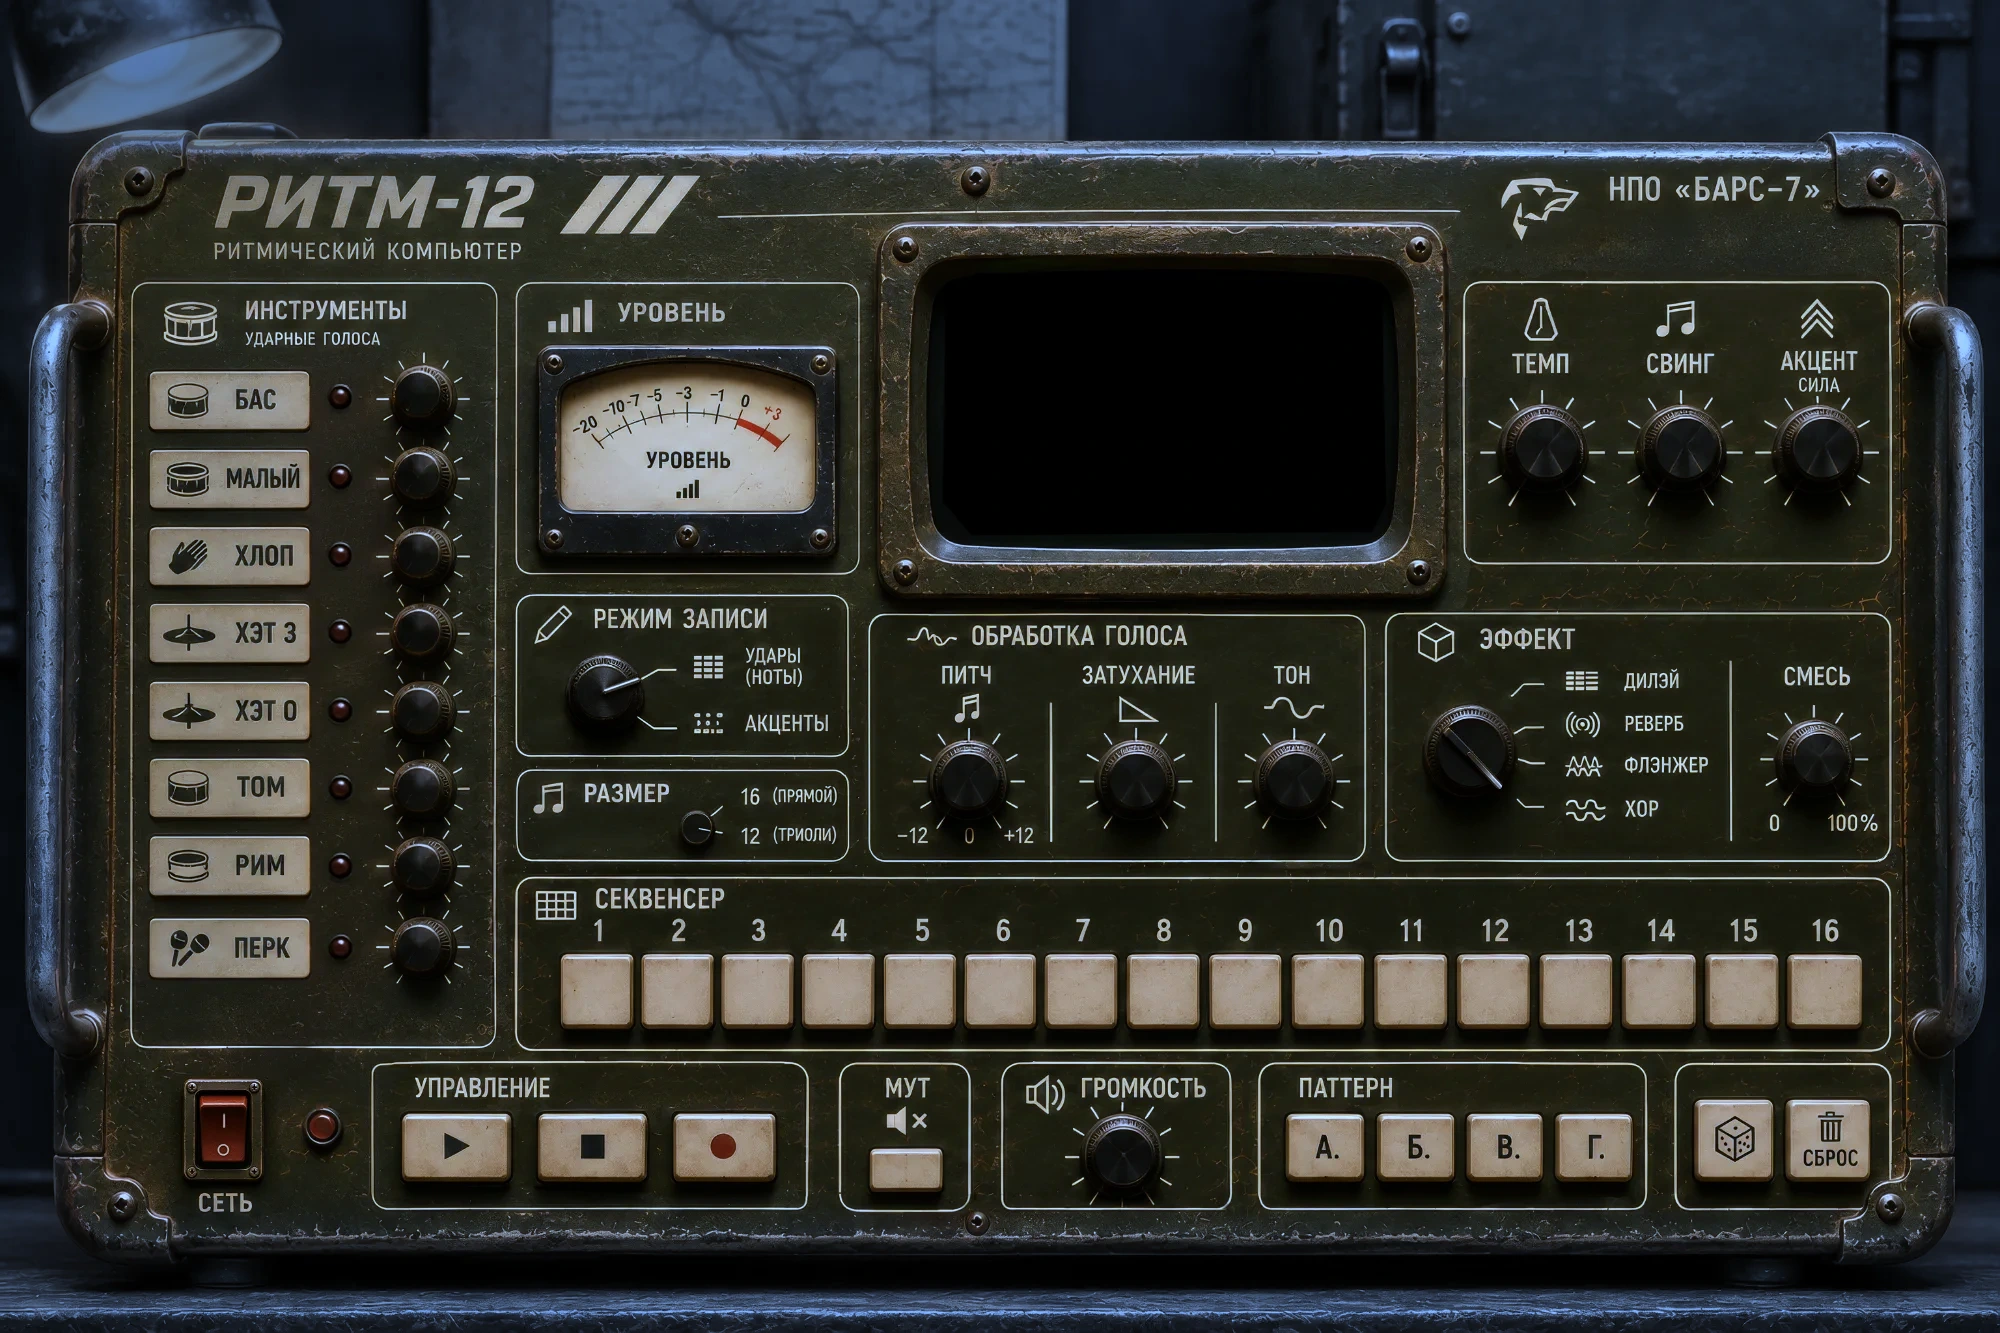
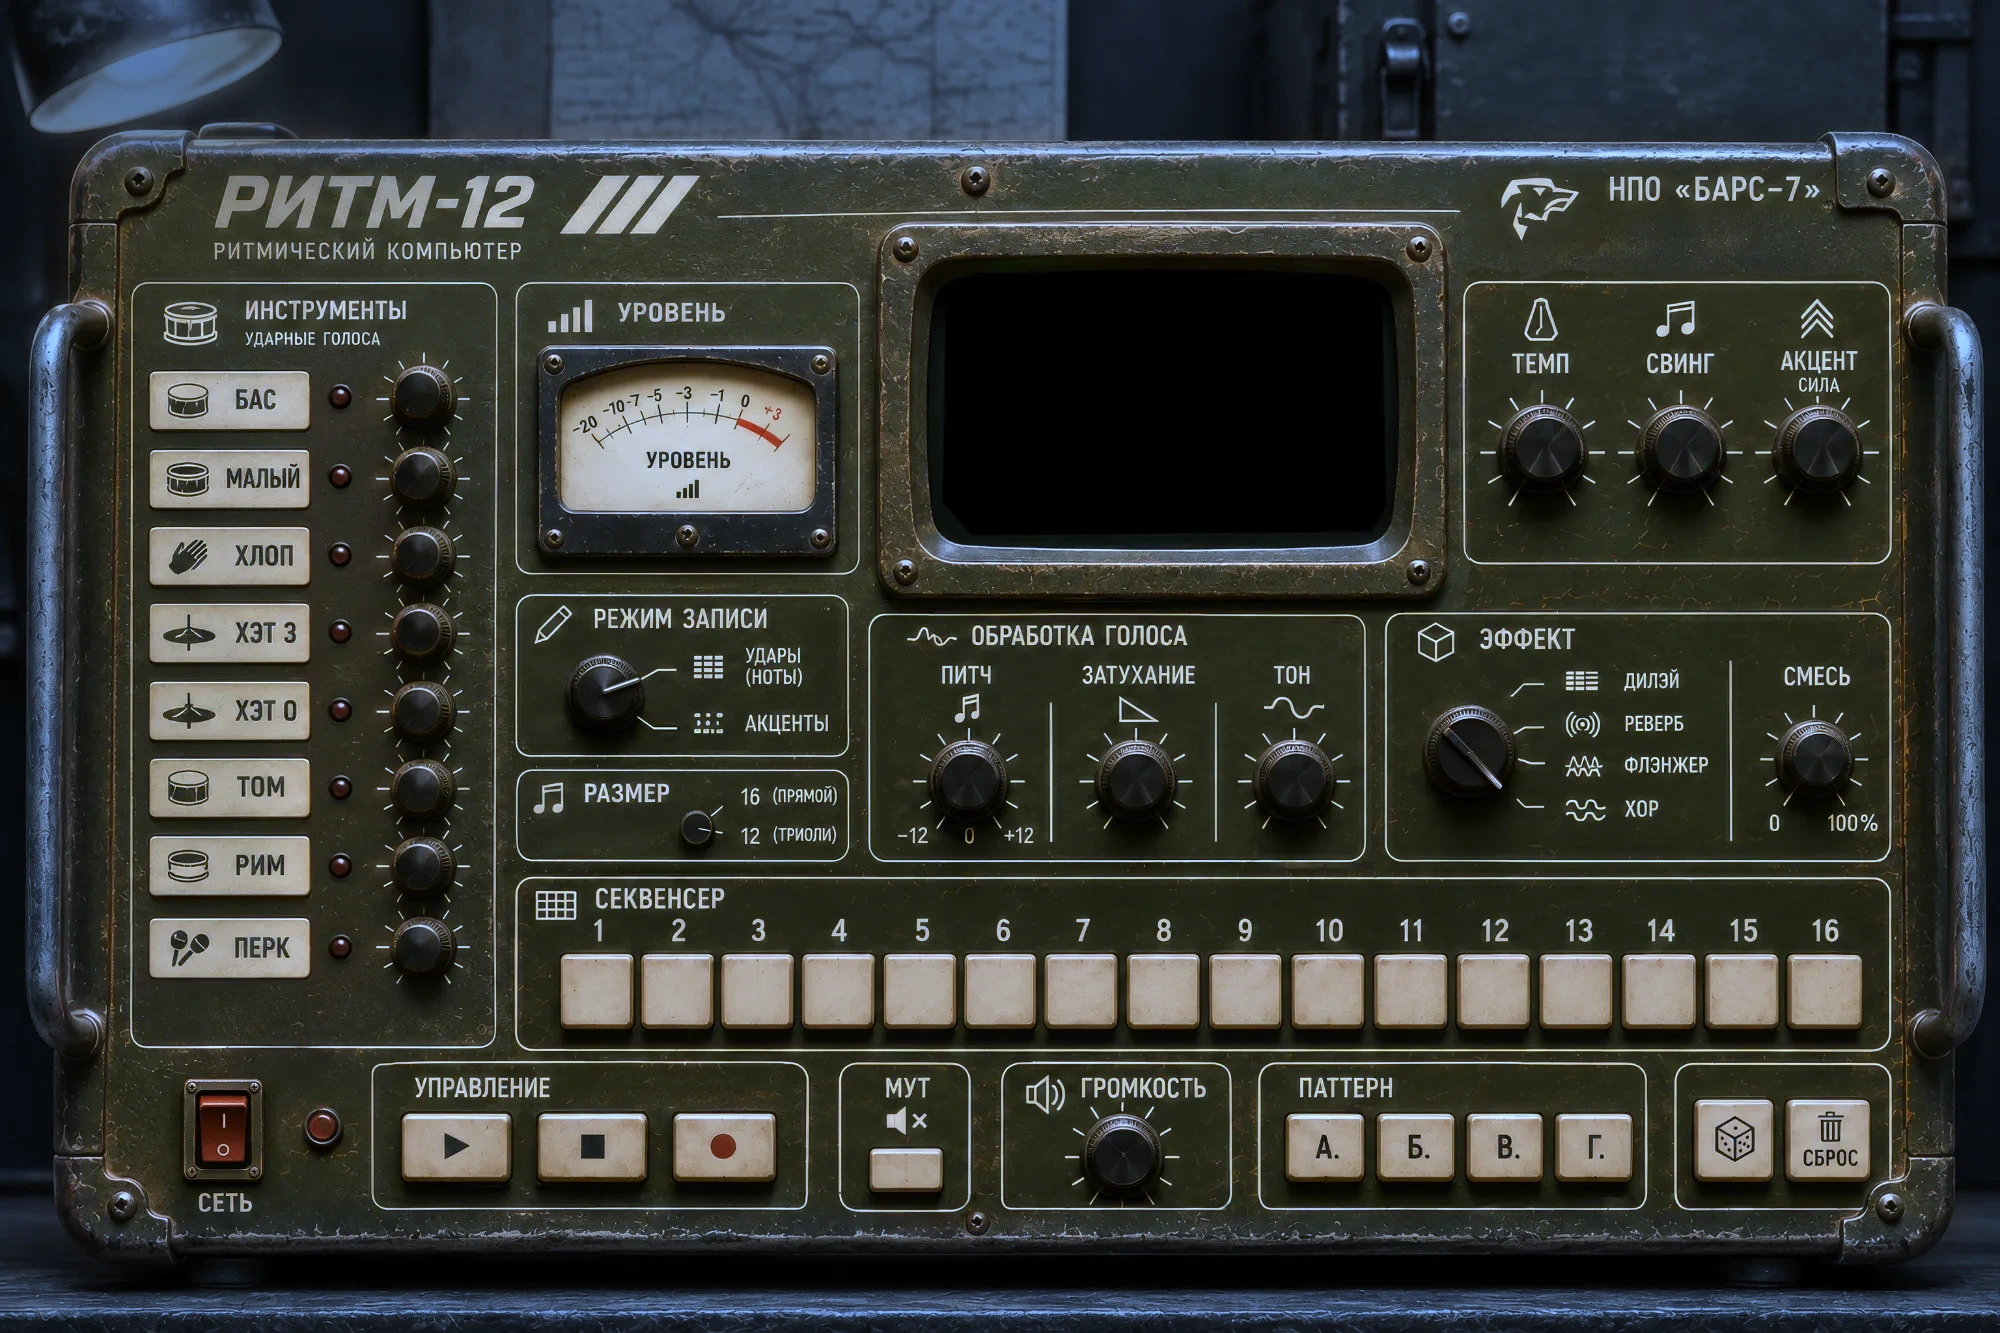
feat(ritm12): lift the shadows and the instrument keys with the desk lamp out

Changed region(s): [[0.062, 0.2768, 0.155, 0.7382]]

diff --git a/packages/machine-ritm12/art/cut-night.py b/packages/machine-ritm12/art/cut-night.py
@@ -23,10 +23,14 @@ night = here / 'night'
 (night / 'patch').mkdir(parents=True, exist_ok=True)
 
 # The machine keeps most of its own colour; the room behind it goes to the blue of a dark room.
-MACHINE = {'light': np.array([0.80, 0.97, 1.28]), 'colour_kept': 1.0, 'depth': 1.15}
+MACHINE = {'light': np.array([0.83, 1.0, 1.32]), 'colour_kept': 1.0, 'depth': 1.0}
 ROOM = {'light': np.array([0.55, 0.78, 1.15]), 'colour_kept': 0.3, 'depth': 0.9}
 # The machine's case on the plate. Every patch lies well inside it.
 CASE = (70, 150, 1950, 1235)
+# The instrument keys, as layout.ts has them, are the ones read most, so they are kept a little brighter than the rest.
+INSTRUMENT_KEYS = [(150, 371, 309, 429), (150, 450, 309, 507), (150, 527, 309, 584), (150, 604, 309, 662),
+                   (150, 682, 309, 739), (150, 759, 309, 816), (150, 836, 309, 894), (150, 918, 310, 977)]
+KEY_LIFT = 1.1
 # The lamp and the light it throws on the wall behind it: the middle of that glow, and how far it reaches.
 LAMP_GLOW = {'centre': (150, 70), 'reach': (400, 250)}
 LAMP_DARK = 0.3
@@ -45,7 +49,10 @@ def in_room(pixels):
     case = np.zeros((height, width))
     case[top:bottom, left:right] = 1
     case = ndimage.gaussian_filter(case, 22)[..., None]
-    return graded(pixels, **MACHINE) * case + graded(pixels, **ROOM) * (1 - case)
+    machine = graded(pixels, **MACHINE)
+    for left, top, right, bottom in INSTRUMENT_KEYS:
+        machine[top:bottom, left:right] *= KEY_LIFT
+    return machine * case + graded(pixels, **ROOM) * (1 - case)
 
 
 def lamp_out(pixels):
@@ -74,5 +81,6 @@ plate = read(here / 'plate.webp')
 write(lamp_out(in_room(plate[..., :3])), plate[..., 3], night / 'plate.webp', quality=92, method=6)
 for patch in sorted((here / 'patch').glob('*.png')):
     pixels = read(patch)
-    write(graded(pixels[..., :3], **MACHINE), pixels[..., 3], night / 'patch' / patch.name, optimize=True)
+    lift = KEY_LIFT if patch.name.startswith('key-') else 1
+    write(graded(pixels[..., :3], **MACHINE) * lift, pixels[..., 3], night / 'patch' / patch.name, optimize=True)
     print(patch.name)
